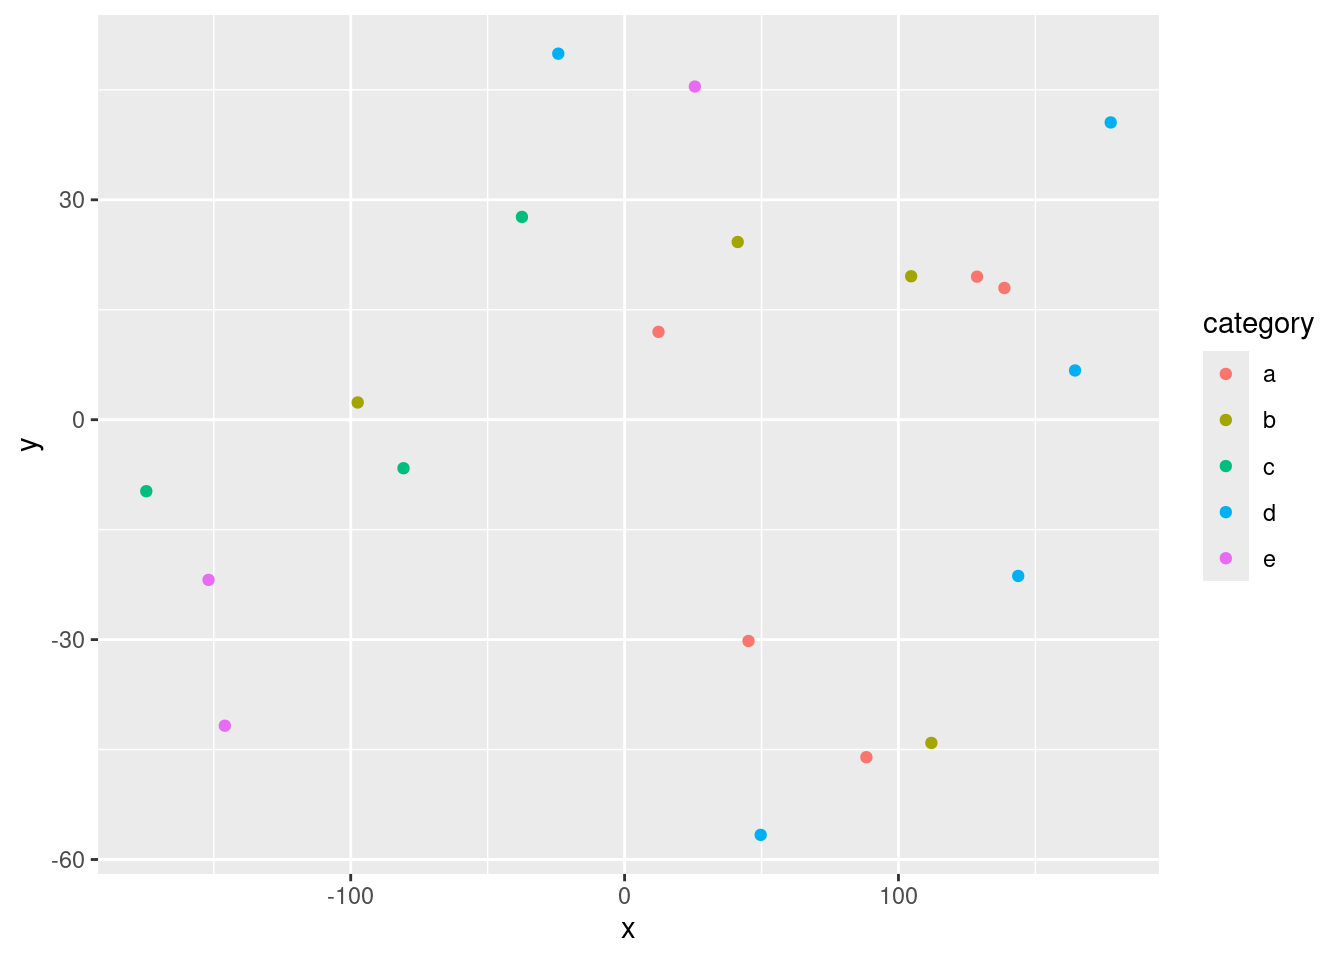
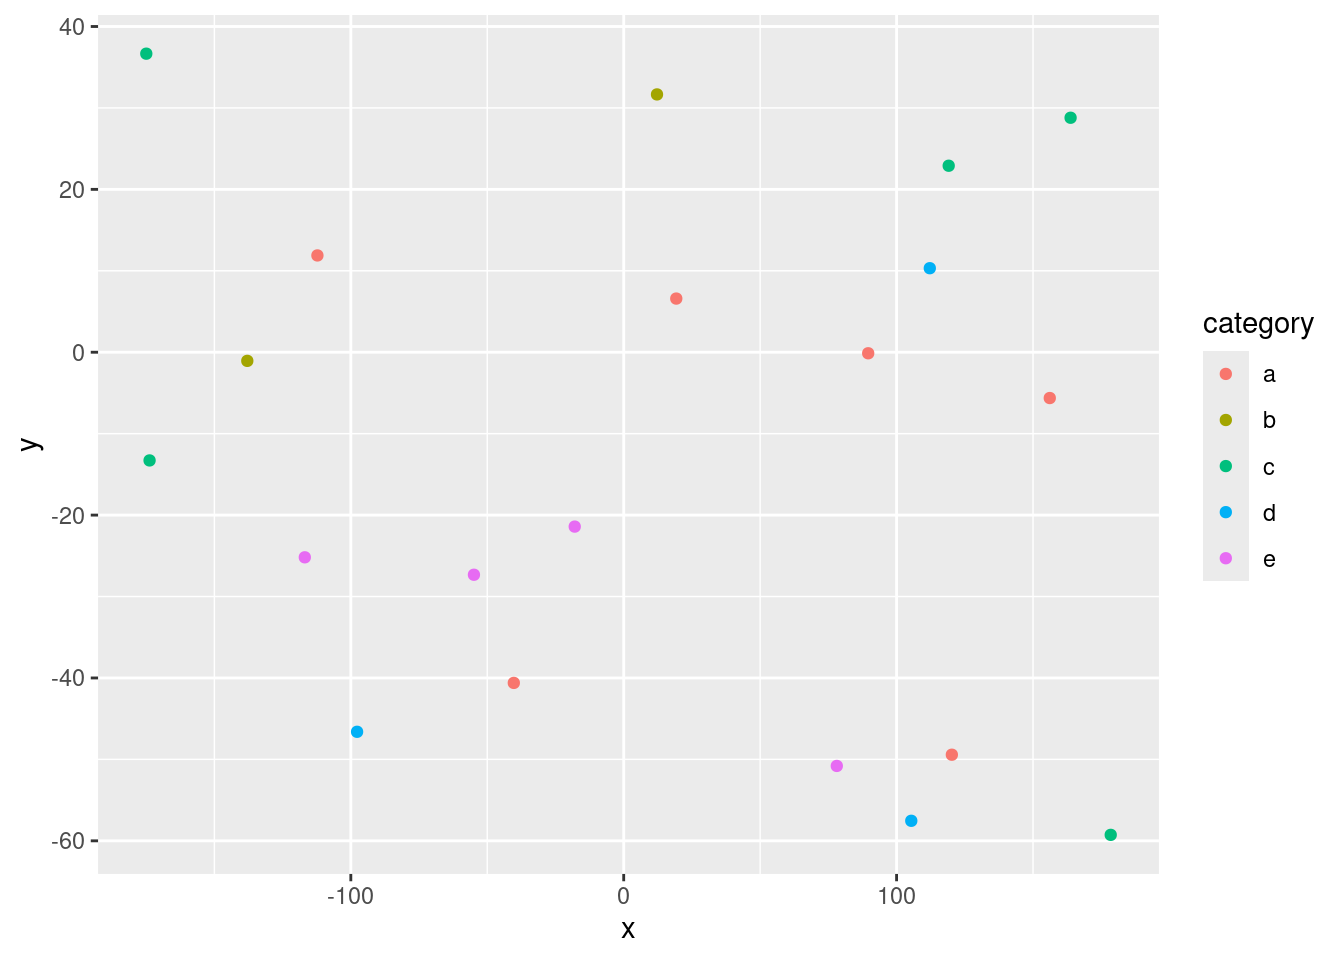
Built site for gh-pages

diff --git a/index.html b/index.html
@@ -6,10 +6,10 @@
 
 <meta name="viewport" content="width=device-width, initial-scale=1.0, user-scalable=yes">
 
-<meta name="author" content="Your name here">
-<meta name="dcterms.date" content="2024-10-26">
+<meta name="author" content="Andrea Harder">
+<meta name="dcterms.date" content="2001-11-07">
 
-<title>My Final Project Template – GEO511_FinalProject</title>
+<title>Andrea’s Final Project Template – GEO511_FinalProject</title>
 <style>
 code{white-space: pre-wrap;}
 span.smallcaps{font-variant: small-caps;}
@@ -167,7 +167,7 @@ pre > code.sourceCode > span > a:first-child::before { text-decoration: underlin
 
 <header id="title-block-header" class="quarto-title-block default">
 <div class="quarto-title">
-<h1 class="title">My Final Project Template</h1>
+<h1 class="title">Andrea’s Final Project Template</h1>
 <p class="subtitle lead">Subtitle here if desired</p>
 </div>
 
@@ -178,14 +178,14 @@ pre > code.sourceCode > span > a:first-child::before { text-decoration: underlin
     <div>
     <div class="quarto-title-meta-heading">Author</div>
     <div class="quarto-title-meta-contents">
-             <p>Your name here </p>
+             <p>Andrea Harder </p>
           </div>
   </div>
     
     <div>
     <div class="quarto-title-meta-heading">Published</div>
     <div class="quarto-title-meta-contents">
-      <p class="date">October 26, 2024</p>
+      <p class="date">November 7, 2001</p>
     </div>
   </div>
   
@@ -266,74 +266,74 @@ pre > code.sourceCode > span > a:first-child::before { text-decoration: underlin
 </thead>
 <tbody>
 <tr class="odd">
-<td style="text-align: center;">-37.48</td>
-<td style="text-align: center;">27.67</td>
-<td style="text-align: center;">7.40</td>
-<td style="text-align: center;">c</td>
-<td style="text-align: center;">0.70</td>
-</tr>
-<tr class="even">
-<td style="text-align: center;">112.02</td>
-<td style="text-align: center;">-44.09</td>
-<td style="text-align: center;">13.38</td>
-<td style="text-align: center;">b</td>
-<td style="text-align: center;">-1.53</td>
-</tr>
-<tr class="odd">
-<td style="text-align: center;">-145.96</td>
-<td style="text-align: center;">-41.75</td>
-<td style="text-align: center;">14.16</td>
+<td style="text-align: center;">-116.86</td>
+<td style="text-align: center;">-25.19</td>
+<td style="text-align: center;">6.56</td>
 <td style="text-align: center;">e</td>
-<td style="text-align: center;">-1.00</td>
+<td style="text-align: center;">-1.26</td>
 </tr>
 <tr class="even">
-<td style="text-align: center;">-24.21</td>
-<td style="text-align: center;">49.94</td>
-<td style="text-align: center;">19.02</td>
+<td style="text-align: center;">163.77</td>
+<td style="text-align: center;">28.79</td>
+<td style="text-align: center;">14.78</td>
+<td style="text-align: center;">c</td>
+<td style="text-align: center;">-1.28</td>
+</tr>
+<tr class="odd">
+<td style="text-align: center;">-97.70</td>
+<td style="text-align: center;">-46.61</td>
+<td style="text-align: center;">12.15</td>
 <td style="text-align: center;">d</td>
-<td style="text-align: center;">-1.58</td>
-</tr>
-<tr class="odd">
-<td style="text-align: center;">128.69</td>
-<td style="text-align: center;">19.51</td>
-<td style="text-align: center;">8.91</td>
-<td style="text-align: center;">a</td>
-<td style="text-align: center;">-0.65</td>
+<td style="text-align: center;">0.12</td>
 </tr>
 <tr class="even">
-<td style="text-align: center;">138.69</td>
-<td style="text-align: center;">17.97</td>
-<td style="text-align: center;">6.88</td>
-<td style="text-align: center;">a</td>
-<td style="text-align: center;">3.02</td>
+<td style="text-align: center;">-173.75</td>
+<td style="text-align: center;">-13.29</td>
+<td style="text-align: center;">10.18</td>
+<td style="text-align: center;">c</td>
+<td style="text-align: center;">1.11</td>
 </tr>
 <tr class="odd">
-<td style="text-align: center;">41.30</td>
-<td style="text-align: center;">24.24</td>
-<td style="text-align: center;">13.63</td>
-<td style="text-align: center;">b</td>
+<td style="text-align: center;">89.60</td>
+<td style="text-align: center;">-0.13</td>
+<td style="text-align: center;">18.01</td>
+<td style="text-align: center;">a</td>
 <td style="text-align: center;">-0.73</td>
 </tr>
 <tr class="even">
-<td style="text-align: center;">88.29</td>
-<td style="text-align: center;">-46.05</td>
-<td style="text-align: center;">7.50</td>
+<td style="text-align: center;">-112.24</td>
+<td style="text-align: center;">11.89</td>
+<td style="text-align: center;">7.44</td>
 <td style="text-align: center;">a</td>
-<td style="text-align: center;">1.76</td>
+<td style="text-align: center;">-0.37</td>
 </tr>
 <tr class="odd">
-<td style="text-align: center;">-174.64</td>
-<td style="text-align: center;">-9.76</td>
-<td style="text-align: center;">17.25</td>
-<td style="text-align: center;">c</td>
-<td style="text-align: center;">0.40</td>
+<td style="text-align: center;">-17.95</td>
+<td style="text-align: center;">-21.41</td>
+<td style="text-align: center;">9.63</td>
+<td style="text-align: center;">e</td>
+<td style="text-align: center;">-0.23</td>
 </tr>
 <tr class="even">
-<td style="text-align: center;">45.25</td>
-<td style="text-align: center;">-30.19</td>
-<td style="text-align: center;">13.78</td>
+<td style="text-align: center;">12.20</td>
+<td style="text-align: center;">31.66</td>
+<td style="text-align: center;">8.22</td>
+<td style="text-align: center;">b</td>
+<td style="text-align: center;">-0.64</td>
+</tr>
+<tr class="odd">
+<td style="text-align: center;">120.25</td>
+<td style="text-align: center;">-49.43</td>
+<td style="text-align: center;">13.62</td>
 <td style="text-align: center;">a</td>
-<td style="text-align: center;">0.76</td>
+<td style="text-align: center;">0.17</td>
+</tr>
+<tr class="even">
+<td style="text-align: center;">178.47</td>
+<td style="text-align: center;">-59.27</td>
+<td style="text-align: center;">10.77</td>
+<td style="text-align: center;">c</td>
+<td style="text-align: center;">1.02</td>
 </tr>
 </tbody>
 </table>
@@ -355,8 +355,8 @@ pre > code.sourceCode > span > a:first-child::before { text-decoration: underlin
 <span id="cb5-4"><a href="#cb5-4" aria-hidden="true" tabindex="-1"></a>  <span class="fu">addPopups</span>(<span class="sc">~</span>x[<span class="dv">2</span>], <span class="sc">~</span>y[<span class="dv">2</span>], <span class="st">"Random popup"</span>)</span>
 <span id="cb5-5"><a href="#cb5-5" aria-hidden="true" tabindex="-1"></a>m  <span class="co"># a map with the default OSM tile layer</span></span></code><button title="Copy to Clipboard" class="code-copy-button"><i class="bi"></i></button></pre></div>
 <div class="cell-output-display">
-<div class="leaflet html-widget html-fill-item" id="htmlwidget-ae27eb9096fd304c670b" style="width:100%;height:325px;"></div>
-<script type="application/json" data-for="htmlwidget-ae27eb9096fd304c670b">{"x":{"options":{"crs":{"crsClass":"L.CRS.EPSG3857","code":null,"proj4def":null,"projectedBounds":null,"options":{}}},"calls":[{"method":"addTiles","args":["https://{s}.tile.openstreetmap.org/{z}/{x}/{y}.png",null,null,{"minZoom":0,"maxZoom":18,"tileSize":256,"subdomains":"abc","errorTileUrl":"","tms":false,"noWrap":false,"zoomOffset":0,"zoomReverse":false,"opacity":1,"zIndex":1,"detectRetina":false,"attribution":"&copy; <a href=\"https://openstreetmap.org/copyright/\">OpenStreetMap<\/a>,  <a href=\"https://opendatacommons.org/licenses/odbl/\">ODbL<\/a>"}]},{"method":"addCircleMarkers","args":[[27.66641353257,-44.09477485343814,-41.75015260465443,49.9357039667666,19.51319796033204,17.97157734632492,24.24148145131767,-46.04590427130461,-9.755489649251103,-30.18844339996576,45.4511428065598,11.98232931084931,-56.64081822149456,-21.85218662023544,40.55439644493163,2.34855517745018,-21.31669012829661,19.56835015676916,-6.621772404760122,6.716662338003516],[-37.48367819935083,112.0215902198106,-145.963224330917,-24.20829238370061,128.6916022282094,138.6890479177237,41.30425913259387,88.29227657988667,-174.6443601697683,45.24722808972001,25.66946572624147,12.38994067534804,49.68796340748668,-151.91167216748,177.5087699666619,-97.44847708381712,143.7325827218592,104.6319343149662,-80.72866894304752,164.4792421348393],[7.398285906529054,13.37579751736484,14.16496652876958,19.01737293694168,8.913166143465787,6.879064081003889,13.6287251545582,7.504612262127921,17.25020682322793,13.78253393340856,13.46753561403602,19.19830136350356,9.595852700294927,12.58394745644182,9.415699358796701,10.77775988844223,15.96626425511204,11.50546296848916,18.97459692438133,18.09296159306541],null,null,{"interactive":true,"className":"","stroke":true,"color":["c","b","e","d","a","a","b","a","c","a","e","a","d","e","d","b","d","b","c","d"],"weight":5,"opacity":0.5,"fill":true,"fillColor":["c","b","e","d","a","a","b","a","c","a","e","a","d","e","d","b","d","b","c","d"],"fillOpacity":0.2},null,null,null,null,null,{"interactive":false,"permanent":false,"direction":"auto","opacity":1,"offset":[0,0],"textsize":"10px","textOnly":false,"className":"","sticky":true},null]},{"method":"addPopups","args":[-44.09477485343814,112.0215902198106,"Random popup",null,null,{"maxWidth":300,"minWidth":50,"autoPan":true,"keepInView":false,"closeButton":true,"className":""}]}],"limits":{"lat":[-56.64081822149456,49.9357039667666],"lng":[-174.6443601697683,177.5087699666619]}},"evals":[],"jsHooks":[]}</script>
+<div class="leaflet html-widget html-fill-item" id="htmlwidget-070ac36cff3f7d2e0c07" style="width:100%;height:325px;"></div>
+<script type="application/json" data-for="htmlwidget-070ac36cff3f7d2e0c07">{"x":{"options":{"crs":{"crsClass":"L.CRS.EPSG3857","code":null,"proj4def":null,"projectedBounds":null,"options":{}}},"calls":[{"method":"addTiles","args":["https://{s}.tile.openstreetmap.org/{z}/{x}/{y}.png",null,null,{"minZoom":0,"maxZoom":18,"tileSize":256,"subdomains":"abc","errorTileUrl":"","tms":false,"noWrap":false,"zoomOffset":0,"zoomReverse":false,"opacity":1,"zIndex":1,"detectRetina":false,"attribution":"&copy; <a href=\"https://openstreetmap.org/copyright/\">OpenStreetMap<\/a>,  <a href=\"https://opendatacommons.org/licenses/odbl/\">ODbL<\/a>"}]},{"method":"addCircleMarkers","args":[[-25.1853967923671,28.79358261823654,-46.61139839328825,-13.28817310743034,-0.1286193542182446,11.88506352715194,-21.41392174176872,31.6582639887929,-49.4271650724113,-59.26974071189761,-50.80431438982487,-27.32682664878666,36.66292229667306,22.90105487219989,-57.54196353256702,10.31775129027665,-5.626416401937604,-1.062678247690201,6.588669419288635,-40.60869854874909],[-116.8620076216757,163.7666984740645,-97.70465092733502,-173.7515851389617,89.59620550274849,-112.2430893871933,-17.9465623665601,12.20276506617665,120.2530026901513,178.4722777828574,78.09289122931659,-54.88544594496489,-174.95261605829,119.0963431354612,105.3856742754579,112.1701873652637,156.1387123726308,-137.9376196861267,19.2646437138319,-40.27269973419607],[6.562921841396019,14.77932036737911,12.15254874667153,10.1825486368034,18.00926718628034,7.44170798920095,9.625021590618417,8.222949847113341,13.62112015252933,10.76978847500868,13.44598229043186,9.942369050113484,14.60694228531793,6.919643081491813,15.43077254085802,17.7321201201994,9.787785856751725,17.96391484211199,11.90348086762242,6.162056574830785],null,null,{"interactive":true,"className":"","stroke":true,"color":["e","c","d","c","a","a","e","b","a","c","e","e","c","c","d","d","a","b","a","a"],"weight":5,"opacity":0.5,"fill":true,"fillColor":["e","c","d","c","a","a","e","b","a","c","e","e","c","c","d","d","a","b","a","a"],"fillOpacity":0.2},null,null,null,null,null,{"interactive":false,"permanent":false,"direction":"auto","opacity":1,"offset":[0,0],"textsize":"10px","textOnly":false,"className":"","sticky":true},null]},{"method":"addPopups","args":[28.79358261823654,163.7666984740645,"Random popup",null,null,{"maxWidth":300,"minWidth":50,"autoPan":true,"keepInView":false,"closeButton":true,"className":""}]}],"limits":{"lat":[-59.26974071189761,36.66292229667306],"lng":[-174.95261605829,178.4722777828574]}},"evals":[],"jsHooks":[]}</script>
 <p>Map of completely random data</p>
 </div>
 </div>
@@ -379,8 +379,8 @@ pre > code.sourceCode > span > a:first-child::before { text-decoration: underlin
 <span id="cb7-2"><a href="#cb7-2" aria-hidden="true" tabindex="-1"></a><span class="fu">dygraph</span>(nhtemp, <span class="at">main =</span> <span class="st">"New Haven Temperatures"</span>) <span class="sc">|&gt;</span> </span>
 <span id="cb7-3"><a href="#cb7-3" aria-hidden="true" tabindex="-1"></a>  <span class="fu">dyRangeSelector</span>(<span class="at">dateWindow =</span> <span class="fu">c</span>(<span class="st">"1920-01-01"</span>, <span class="st">"1960-01-01"</span>)) </span></code><button title="Copy to Clipboard" class="code-copy-button"><i class="bi"></i></button></pre></div>
 <div class="cell-output-display">
-<div class="dygraphs html-widget html-fill-item" id="htmlwidget-72799c0a11cbdcbead59" style="width:100%;height:464px;"></div>
-<script type="application/json" data-for="htmlwidget-72799c0a11cbdcbead59">{"x":{"attrs":{"title":"New Haven Temperatures","labels":["year","V1"],"legend":"auto","retainDateWindow":false,"axes":{"x":{"pixelsPerLabel":60}},"showRangeSelector":true,"dateWindow":["1920-01-01T00:00:00.000Z","1960-01-01T00:00:00.000Z"],"rangeSelectorHeight":40,"rangeSelectorPlotFillColor":" #A7B1C4","rangeSelectorPlotStrokeColor":"#808FAB","interactionModel":"Dygraph.Interaction.defaultModel"},"scale":"yearly","annotations":[],"shadings":[],"events":[],"format":"date","data":[["1912-01-01T00:00:00.000Z","1913-01-01T00:00:00.000Z","1914-01-01T00:00:00.000Z","1915-01-01T00:00:00.000Z","1916-01-01T00:00:00.000Z","1917-01-01T00:00:00.000Z","1918-01-01T00:00:00.000Z","1919-01-01T00:00:00.000Z","1920-01-01T00:00:00.000Z","1921-01-01T00:00:00.000Z","1922-01-01T00:00:00.000Z","1923-01-01T00:00:00.000Z","1924-01-01T00:00:00.000Z","1925-01-01T00:00:00.000Z","1926-01-01T00:00:00.000Z","1927-01-01T00:00:00.000Z","1928-01-01T00:00:00.000Z","1929-01-01T00:00:00.000Z","1930-01-01T00:00:00.000Z","1931-01-01T00:00:00.000Z","1932-01-01T00:00:00.000Z","1933-01-01T00:00:00.000Z","1934-01-01T00:00:00.000Z","1935-01-01T00:00:00.000Z","1936-01-01T00:00:00.000Z","1937-01-01T00:00:00.000Z","1938-01-01T00:00:00.000Z","1939-01-01T00:00:00.000Z","1940-01-01T00:00:00.000Z","1941-01-01T00:00:00.000Z","1942-01-01T00:00:00.000Z","1943-01-01T00:00:00.000Z","1944-01-01T00:00:00.000Z","1945-01-01T00:00:00.000Z","1946-01-01T00:00:00.000Z","1947-01-01T00:00:00.000Z","1948-01-01T00:00:00.000Z","1949-01-01T00:00:00.000Z","1950-01-01T00:00:00.000Z","1951-01-01T00:00:00.000Z","1952-01-01T00:00:00.000Z","1953-01-01T00:00:00.000Z","1954-01-01T00:00:00.000Z","1955-01-01T00:00:00.000Z","1956-01-01T00:00:00.000Z","1957-01-01T00:00:00.000Z","1958-01-01T00:00:00.000Z","1959-01-01T00:00:00.000Z","1960-01-01T00:00:00.000Z","1961-01-01T00:00:00.000Z","1962-01-01T00:00:00.000Z","1963-01-01T00:00:00.000Z","1964-01-01T00:00:00.000Z","1965-01-01T00:00:00.000Z","1966-01-01T00:00:00.000Z","1967-01-01T00:00:00.000Z","1968-01-01T00:00:00.000Z","1969-01-01T00:00:00.000Z","1970-01-01T00:00:00.000Z","1971-01-01T00:00:00.000Z"],[49.9,52.3,49.4,51.1,49.4,47.9,49.8,50.9,49.3,51.9,50.8,49.6,49.3,50.6,48.4,50.7,50.9,50.6,51.5,52.8,51.8,51.1,49.8,50.2,50.4,51.6,51.8,50.9,48.8,51.7,51,50.6,51.7,51.5,52.1,51.3,51,54,51.4,52.7,53.1,54.6,52,52,50.9,52.6,50.2,52.6,51.6,51.9,50.5,50.9,51.7,51.4,51.7,50.8,51.9,51.8,51.9,53]]},"evals":["attrs.interactionModel"],"jsHooks":[]}</script>
+<div class="dygraphs html-widget html-fill-item" id="htmlwidget-91d07bb2dd16c2ea36ce" style="width:100%;height:464px;"></div>
+<script type="application/json" data-for="htmlwidget-91d07bb2dd16c2ea36ce">{"x":{"attrs":{"title":"New Haven Temperatures","labels":["year","V1"],"legend":"auto","retainDateWindow":false,"axes":{"x":{"pixelsPerLabel":60}},"showRangeSelector":true,"dateWindow":["1920-01-01T00:00:00.000Z","1960-01-01T00:00:00.000Z"],"rangeSelectorHeight":40,"rangeSelectorPlotFillColor":" #A7B1C4","rangeSelectorPlotStrokeColor":"#808FAB","interactionModel":"Dygraph.Interaction.defaultModel"},"scale":"yearly","annotations":[],"shadings":[],"events":[],"format":"date","data":[["1912-01-01T00:00:00.000Z","1913-01-01T00:00:00.000Z","1914-01-01T00:00:00.000Z","1915-01-01T00:00:00.000Z","1916-01-01T00:00:00.000Z","1917-01-01T00:00:00.000Z","1918-01-01T00:00:00.000Z","1919-01-01T00:00:00.000Z","1920-01-01T00:00:00.000Z","1921-01-01T00:00:00.000Z","1922-01-01T00:00:00.000Z","1923-01-01T00:00:00.000Z","1924-01-01T00:00:00.000Z","1925-01-01T00:00:00.000Z","1926-01-01T00:00:00.000Z","1927-01-01T00:00:00.000Z","1928-01-01T00:00:00.000Z","1929-01-01T00:00:00.000Z","1930-01-01T00:00:00.000Z","1931-01-01T00:00:00.000Z","1932-01-01T00:00:00.000Z","1933-01-01T00:00:00.000Z","1934-01-01T00:00:00.000Z","1935-01-01T00:00:00.000Z","1936-01-01T00:00:00.000Z","1937-01-01T00:00:00.000Z","1938-01-01T00:00:00.000Z","1939-01-01T00:00:00.000Z","1940-01-01T00:00:00.000Z","1941-01-01T00:00:00.000Z","1942-01-01T00:00:00.000Z","1943-01-01T00:00:00.000Z","1944-01-01T00:00:00.000Z","1945-01-01T00:00:00.000Z","1946-01-01T00:00:00.000Z","1947-01-01T00:00:00.000Z","1948-01-01T00:00:00.000Z","1949-01-01T00:00:00.000Z","1950-01-01T00:00:00.000Z","1951-01-01T00:00:00.000Z","1952-01-01T00:00:00.000Z","1953-01-01T00:00:00.000Z","1954-01-01T00:00:00.000Z","1955-01-01T00:00:00.000Z","1956-01-01T00:00:00.000Z","1957-01-01T00:00:00.000Z","1958-01-01T00:00:00.000Z","1959-01-01T00:00:00.000Z","1960-01-01T00:00:00.000Z","1961-01-01T00:00:00.000Z","1962-01-01T00:00:00.000Z","1963-01-01T00:00:00.000Z","1964-01-01T00:00:00.000Z","1965-01-01T00:00:00.000Z","1966-01-01T00:00:00.000Z","1967-01-01T00:00:00.000Z","1968-01-01T00:00:00.000Z","1969-01-01T00:00:00.000Z","1970-01-01T00:00:00.000Z","1971-01-01T00:00:00.000Z"],[49.9,52.3,49.4,51.1,49.4,47.9,49.8,50.9,49.3,51.9,50.8,49.6,49.3,50.6,48.4,50.7,50.9,50.6,51.5,52.8,51.8,51.1,49.8,50.2,50.4,51.6,51.8,50.9,48.8,51.7,51,50.6,51.7,51.5,52.1,51.3,51,54,51.4,52.7,53.1,54.6,52,52,50.9,52.6,50.2,52.6,51.6,51.9,50.5,50.9,51.7,51.4,51.7,50.8,51.9,51.8,51.9,53]]},"evals":["attrs.interactionModel"],"jsHooks":[]}</script>
 </div>
 </div>
 </section>
